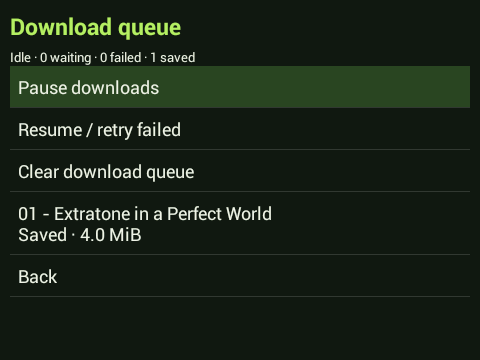
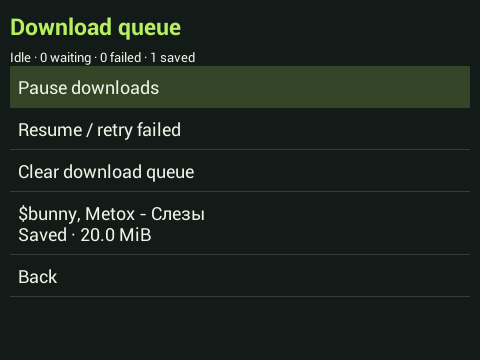
Show verified v0.9.0 offline download on Y1

Changed region(s): [[0.0312, 0.55, 0.5625, 0.6722]]

diff --git a/README.md b/README.md
@@ -12,7 +12,7 @@
 |:--:|:--:|:--:|
 | ![Playlist tracks](docs/screenshots/playlist-detail.png) | ![Saved offline track](docs/screenshots/offline-downloads.png) | ![Device settings](docs/screenshots/settings.png) |
 
-Screens are real Y1 captures. The offline download screen shows an earlier build of the same client.
+Screens are real Y1 captures, including an offline download completed on v0.9.0.
 
 ## What it does
 
